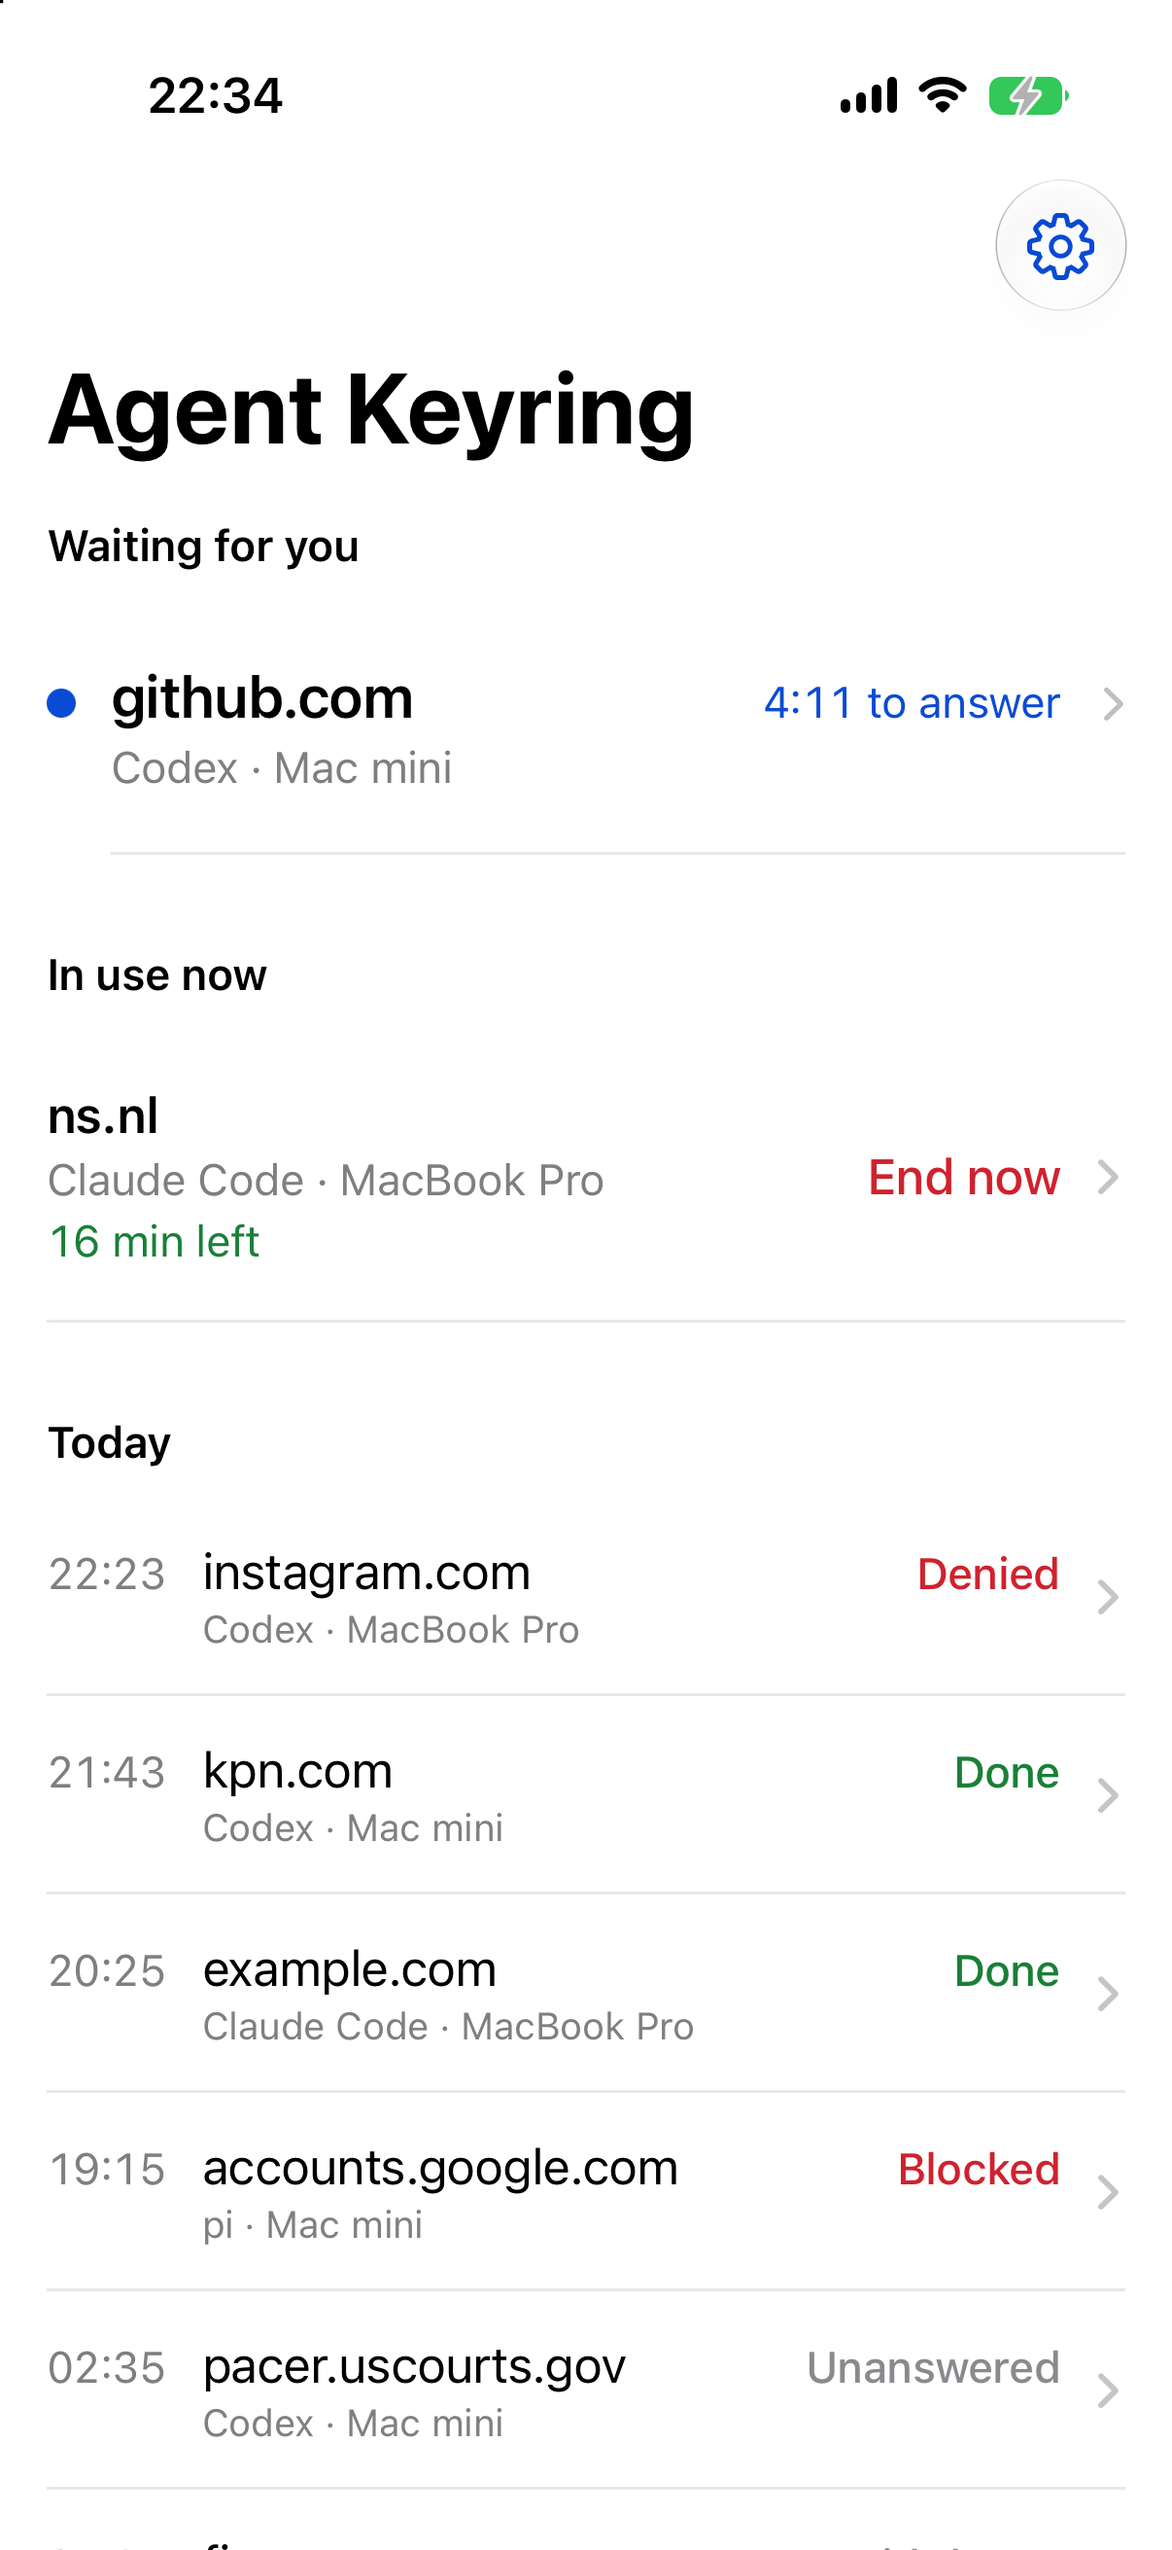
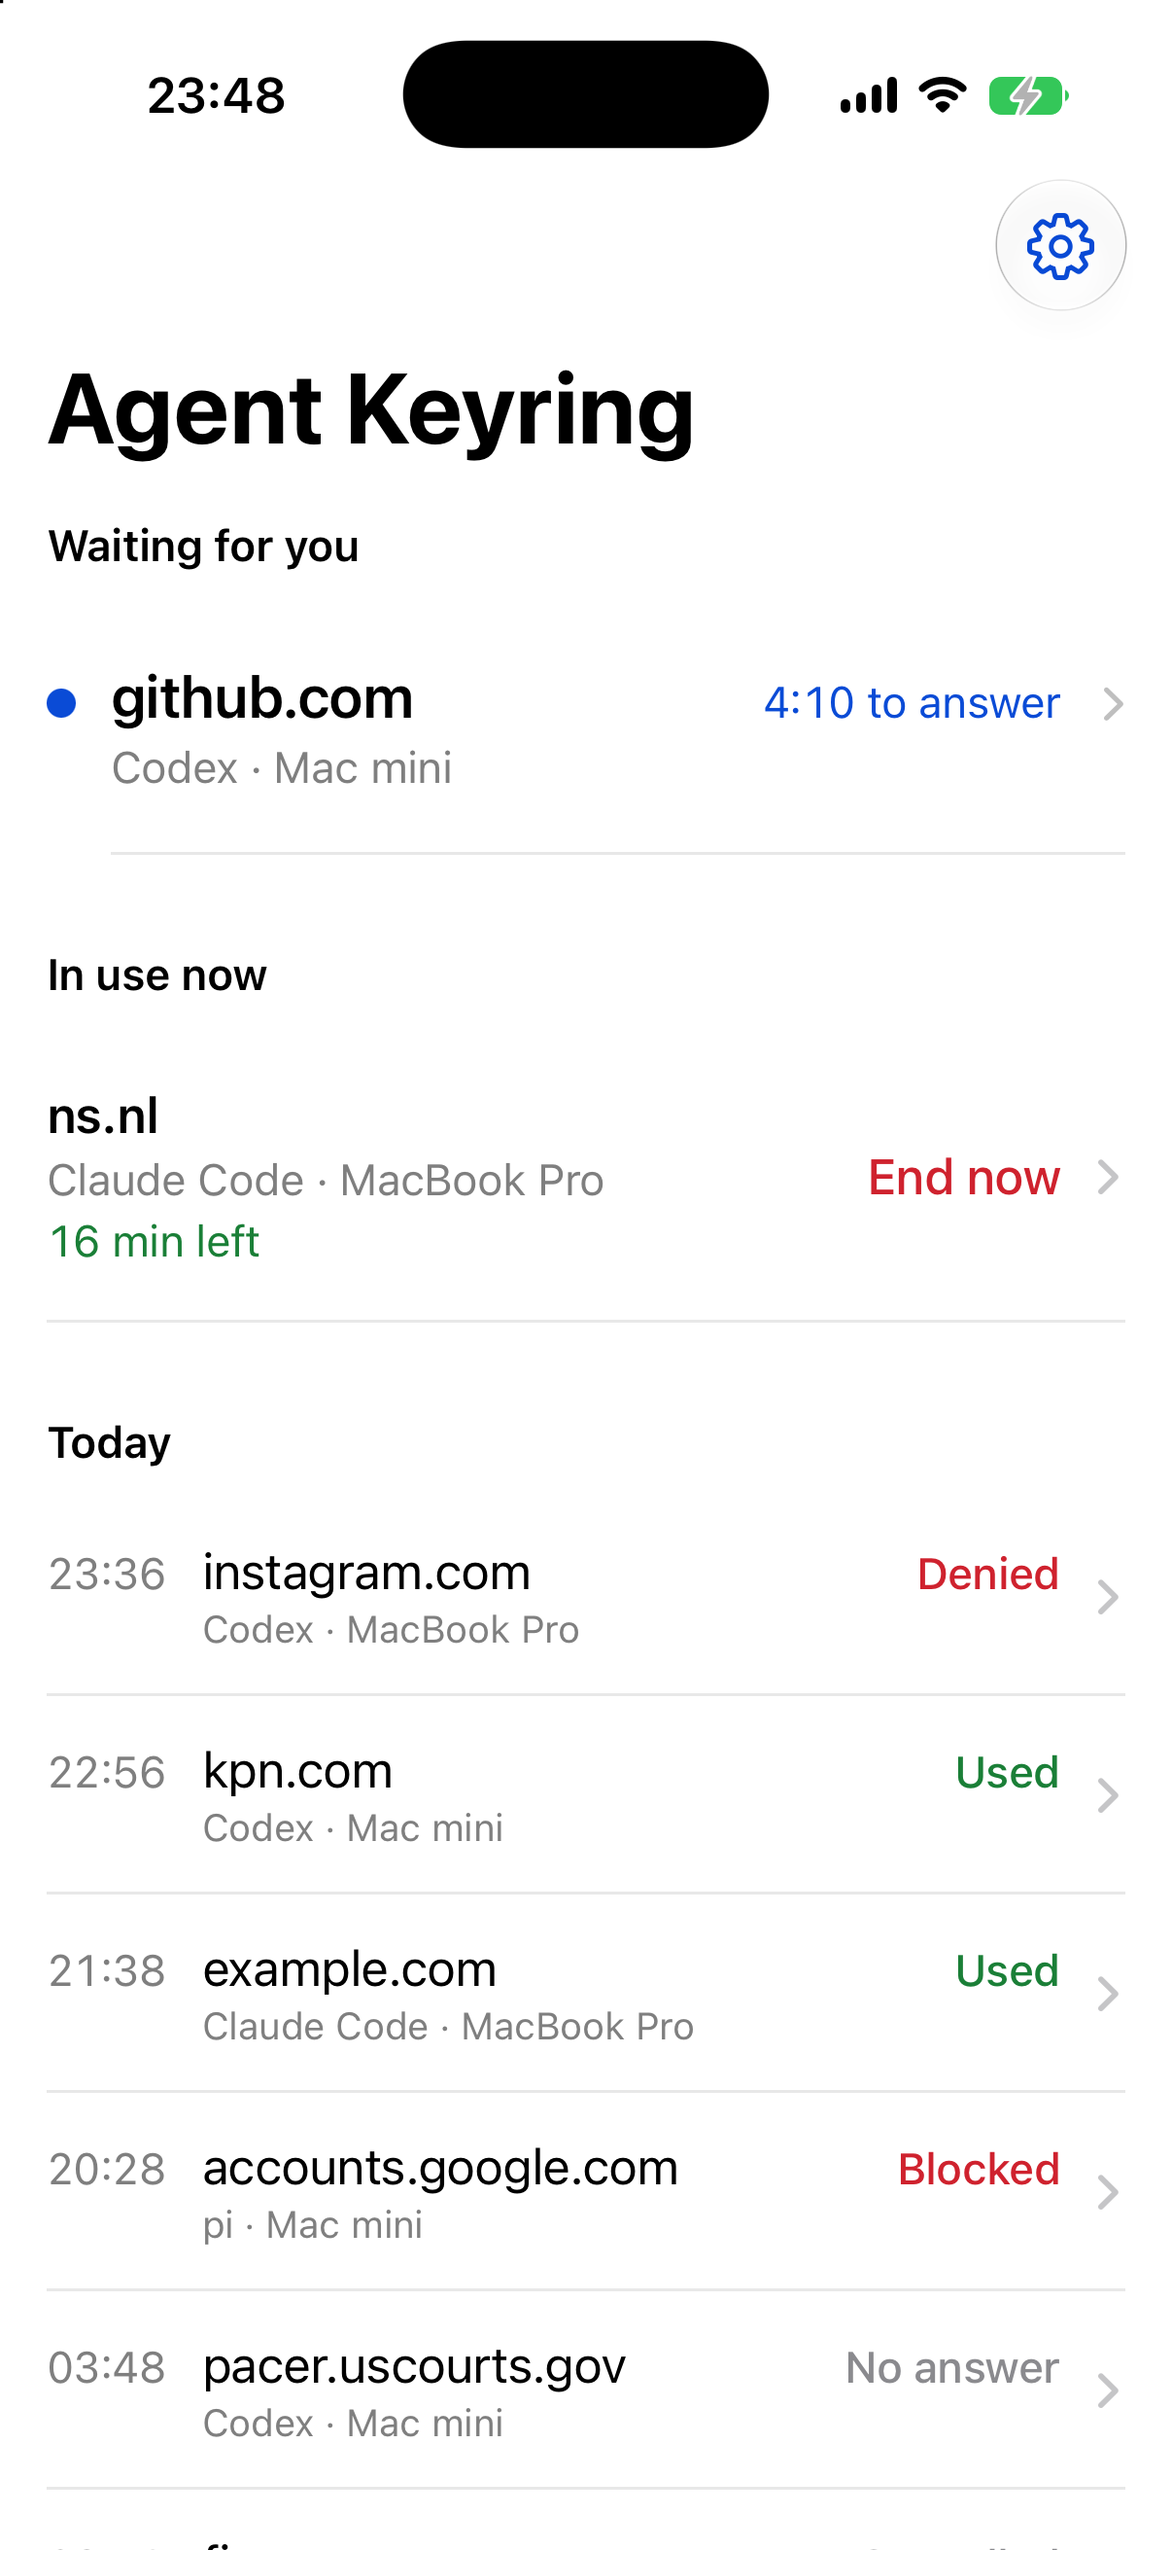
Menu bar and Machines: show only what Josh acts on
The menu bar window now holds what is waiting for him, what agents are
using now, what they used lately, and the way to the rules. The relay
status line, the login count and the "Confirm rules for other machines"
row are gone. Recent outcomes read Used, Denied, Blocked, No answer.
The Machines window no longer shows the connection to the Mac mini once
it works.

A machine joining and connecting the Mac mini are now one plain
approval each, with no code to compare: the setup agent checks the code.
Pairing the iPhone keeps its code, because both screens are in his
hands. These two screens must ship with the change that makes the Mac
app compare the code itself.

diff --git a/AgentKeyringPackage/Sources/AgentKeyringApprovalUI/Mac/MacMenuBarView.swift b/AgentKeyringPackage/Sources/AgentKeyringApprovalUI/Mac/MacMenuBarView.swift
@@ -1,8 +1,9 @@
 // Written by AI on 2026.10.31 by model Claude Opus 5.5.
 //
-// The menu bar window: what is waiting, what agents are using now with a
-// way to end it, and the last few answers. Two ways out: the rules, and the
-// app. Nothing else, because nothing else is needed often.
+// The menu bar window answers three questions: is anything waiting for me,
+// what are agents using now (and can I stop it), and what did they use
+// lately. Plus a way to the rules. Connection state, login counts and
+// housekeeping stay out: none of them is something Josh acts on here.
 
 #if os(macOS)
 import Observation
@@ -86,16 +87,9 @@ public final class MacMenuBarModel {
         self.backend = backend
     }
 
-    /// Everything that needs Josh: waiting requests and devices waiting to join.
-    public var attentionCount: Int { waiting.count + enrolments.count + (taskHistoryNeedsReset ? 1 : 0)
-        + (otherMachinesNeedRules ? 1 : 0) }
-
-    /// One line when the relay needs attention; nil when all is well.
-    public var relayAttention: String? {
-        guard case let .offline(address) = relay else { return nil }
-        return SetupCopy.relayOffline(address)
-            + (queuedAnswers > 0 ? " " + SetupCopy.queuedAnswers(queuedAnswers) : "")
-    }
+    /// Everything that needs Josh: waiting requests, devices waiting to join,
+    /// and agents paused on this Mac.
+    public var attentionCount: Int { waiting.count + enrolments.count + (taskHistoryNeedsReset ? 1 : 0) }
 
     /// Follows the backend for as long as the app runs. Start it once at launch,
     /// not from the window, because the menu bar icon shows the waiting count.
@@ -173,11 +167,8 @@ public struct MacMenuBarView: View {
                 }
                 .padding(14)
             }
-            if !model.waiting.isEmpty || !model.enrolments.isEmpty || model.otherMachinesNeedRules {
+            if !model.waiting.isEmpty || !model.enrolments.isEmpty {
                 MenuSection(title: "Waiting for you") {
-                    if model.otherMachinesNeedRules {
-                        OtherMachinesRulesRow(review: model.openRules)
-                    }
                     ForEach(model.enrolments) { enrolment in
                         JoiningMenuRow(enrolment: enrolment) { model.reviewEnrolment(enrolment.id) }
                     }
@@ -207,18 +198,6 @@ public struct MacMenuBarView: View {
                     }
                 }
             }
-            if let attention = model.relayAttention {
-                Divider().padding(.top, 6)
-                Button(action: model.openMachines) {
-                    Label(attention, systemImage: "exclamationmark.circle")
-                        .font(.callout)
-                        .foregroundStyle(.primary)
-                        .frame(maxWidth: .infinity, alignment: .leading)
-                }
-                .buttonStyle(.plain)
-                .padding(.horizontal, 14)
-                .padding(.vertical, 8)
-            }
             Divider().padding(.top, 6)
             footer
         }
@@ -228,12 +207,6 @@ public struct MacMenuBarView: View {
 
     private var footer: some View {
         HStack(spacing: 8) {
-            if let passwords = model.passwords {
-                Text("\(passwords.count) logins · imported \(passwords.importedAt.formatted(.relative(presentation: .named)))")
-                    .font(.caption)
-                    .foregroundStyle(.secondary)
-                    .lineLimit(1)
-            }
             Spacer()
             Button("Rules…", action: model.openRules)
                 .controlSize(.small)
@@ -321,31 +294,6 @@ private struct JoiningMenuRow: View {
             VStack(alignment: .leading, spacing: 1) {
                 Text(enrolment.name).font(.body.weight(.semibold))
                 Text(SetupCopy.joiningDetail(enrolment))
-                    .font(.caption).foregroundStyle(.secondary)
-            }
-            Spacer()
-            Button(SetupCopy.review, action: review)
-                .buttonStyle(.borderedProminent)
-                .tint(KeyringColour.signal)
-                .controlSize(.small)
-        }
-        .padding(.horizontal, 14)
-        .padding(.vertical, 6)
-    }
-}
-
-/// The rules window opens on its confirmation band.
-private struct OtherMachinesRulesRow: View {
-    let review: () -> Void
-
-    var body: some View {
-        HStack(alignment: .center, spacing: 10) {
-            Image(systemName: "slider.horizontal.3")
-                .foregroundStyle(KeyringColour.signal)
-                .frame(width: 8)
-            VStack(alignment: .leading, spacing: 1) {
-                Text(RulesCopy.otherMachinesNeedRulesTitle).font(.body.weight(.semibold))
-                Text(RulesCopy.otherMachinesNeedRulesDetail)
                     .font(.caption).foregroundStyle(.secondary)
             }
             Spacer()

diff --git a/AgentKeyringPackage/Sources/AgentKeyringApprovalUI/Mac/MacMachinesView.swift b/AgentKeyringPackage/Sources/AgentKeyringApprovalUI/Mac/MacMachinesView.swift
@@ -18,6 +18,13 @@ public enum RelayLink: Hashable, Sendable {
     case offline(address: String)
 }
 
+extension RelayLink {
+    var isConnected: Bool {
+        if case .connected = self { return true }
+        return false
+    }
+}
+
 public struct EnrolledMachine: Identifiable, Hashable, Sendable {
     public let id: String
     public var name: String
@@ -187,10 +194,9 @@ public struct MacMachinesView: View {
 
     public var body: some View {
         Form {
-            Section(SetupCopy.relayHeading) {
-                relay
-                // Pending withdrawals say more than the spinner, so they replace it.
-                if model.snapshot.isApplying && model.snapshot.withdrawals.isEmpty { ApplyingLine() }
+            // Once connected, the link to the Mac mini is nothing Josh acts on, so it isn't shown.
+            if !model.snapshot.relay.isConnected {
+                Section(SetupCopy.relayHeading) { relay }
             }
 
             if !model.snapshot.withdrawals.isEmpty {
@@ -213,9 +219,7 @@ public struct MacMachinesView: View {
                 Section(SetupCopy.waitingToJoin) {
                     ForEach(model.snapshot.waiting) { enrolment in
                         HStack {
-                            MachineLabel(name: enrolment.name,
-                                detail: enrolment.tailnetNode.isEmpty
-                                    ? SetupCopy.joiningDetail(enrolment) : SetupCopy.tailnetNode(enrolment.tailnetNode),
+                            MachineLabel(name: enrolment.name, detail: SetupCopy.joiningDetail(enrolment),
                                 symbol: enrolment.kind == .machine ? "desktopcomputer" : "iphone")
                             Spacer()
                             Button(SetupCopy.review) { model.review(enrolment.id) }
@@ -265,8 +269,7 @@ public struct MacMachinesView: View {
                     ForEach(model.snapshot.machines) { machine in
                         HStack {
                             MachineLabel(name: machine.name,
-                                detail: "\(machine.tailnetNode) · " + (machine.automaticAllowed
-                                    ? SetupCopy.automaticAllowed : SetupCopy.asksEveryTime),
+                                detail: machine.automaticAllowed ? SetupCopy.automaticAllowed : SetupCopy.asksEveryTime,
                                 symbol: "desktopcomputer")
                             Spacer()
                             Button(SetupCopy.remove) { Task { await model.remove(machine.id) } }
@@ -314,23 +317,18 @@ public struct MacMachinesView: View {
                 ProgressView().controlSize(.small)
                 Text(SetupCopy.relayConnecting(address))
             }
-        case let .comparing(code, address):
+        case .comparing:
+            // The setup agent has already checked the code; Josh only decides.
             VStack(alignment: .leading, spacing: 10) {
-                Text(SetupCopy.compareWithSetupCode)
+                Text(SetupCopy.connectToMiniTitle)
                     .font(.headline)
-                Text(SetupCopy.setupCodeSource(address))
-                    .foregroundStyle(.secondary)
-                FingerprintGrid(code)
-                    .frame(maxWidth: .infinity)
-                    .padding(.vertical, 6)
-                Text(SetupCopy.allGroupsMustMatch)
-                    .font(.footnote)
+                Text(SetupCopy.connectToMiniBody)
                     .foregroundStyle(.secondary)
                 HStack(spacing: 10) {
-                    Button(SetupCopy.doesNotMatch) { Task { await model.cancelRelaySetup() } }
-                        .buttonStyle(DecisionButtonStyle(colour: KeyringColour.deny, height: 32))
+                    Button(SetupCopy.notNow) { Task { await model.cancelRelaySetup() } }
+                        .buttonStyle(.quiet(height: 32))
                     Button { Task { await model.confirmRelay() } } label: {
-                        Label(SetupCopy.theyMatch, systemImage: "touchid")
+                        Label(SetupCopy.connect, systemImage: "touchid")
                     }
                     .buttonStyle(DecisionButtonStyle(colour: KeyringColour.approve, height: 32))
                 }

diff --git a/AgentKeyringPackage/Sources/AgentKeyringApprovalUI/Shared/SetupCopy.swift b/AgentKeyringPackage/Sources/AgentKeyringApprovalUI/Shared/SetupCopy.swift
@@ -16,7 +16,7 @@ public enum SetupCopy {
 
     public static func joiningLead(_ kind: DeviceEnrolment.Kind) -> String {
         switch kind {
-        case .machine: "A new machine wants to ask for logins"
+        case .machine: "Let agents on this machine ask for your logins?"
         case .approver: "Your iPhone wants to approve requests"
         }
     }
@@ -24,7 +24,7 @@ public enum SetupCopy {
     /// The second line under a joining device's name, in lists.
     public static func joiningDetail(_ enrolment: DeviceEnrolment) -> String {
         if let old = enrolment.replacesPhone { return "Replaces \(old)" }
-        return enrolment.kind == .machine ? "Wants to ask for logins" : "Wants to approve requests"
+        return enrolment.kind == .machine ? "Wants its agents to ask for your logins" : "Wants to approve requests"
     }
 
     /// In the panel, under the new iPhone's name.
@@ -70,13 +70,13 @@ public enum SetupCopy {
     public static let relayAddressExample = "mac-mini:17443"
     public static let relayAddressHint = "Its Tailscale name and port."
     public static let connect = "Connect"
-    /// RFC 0005, "First approver": the agent setting up the relay reads its
-    /// code over the mini's trusted SSH connection and shows it to Josh; he
-    /// never opens a log.
-    public static let compareWithSetupCode = "Check that this Mac is talking to your Mac mini"
-    public static func setupCodeSource(_ address: String) -> String {
-        "The agent that set up your Mac mini reads the same code there and shows it to you. Compare the two. Address: \(address)."
-    }
+    /// The agent setting up the mini checks its code for Josh (it reads it over
+    /// SSH and the Mac app compares), so he only makes the decision itself.
+    public static let connectToMiniTitle = "Connect this Mac to your Mac mini?"
+    public static let connectToMiniBody = "Agents on your other machines will then send their login requests through it to you."
+    public static let notNow = "Not now"
+    public static let allow = "Allow"
+    public static let dontAllow = "Don't allow"
 
     public static func relayConnected(_ address: String) -> String { "Connected to \(address)" }
     public static func relayConnecting(_ address: String) -> String { "Connecting to \(address)…" }
@@ -89,7 +89,7 @@ public enum SetupCopy {
     /// RFC 0005, "Applying a change": shown until the relay acknowledges.
     public static let applying = "Sending changes to your Mac mini…"
     public static let waitingToJoin = "Waiting to join"
-    public static let machinesThatCanAsk = "Machines that can ask for logins"
+    public static let machinesThatCanAsk = "Machines whose agents can ask for your logins"
     public static let noMachines = "None yet. To add a machine, ask an agent on it to set up Agent Keyring."
     public static let automaticAllowed = "Can use Automatic logins"
     public static let asksEveryTime = "Asks you for every login"
@@ -117,7 +117,7 @@ public enum SetupCopy {
         guard names.count > 1 else { return names.first ?? "" }
         return names.dropLast().joined(separator: ", ") + " and " + names.last!
     }
-    public static let canApprove = "Devices that can approve"
+    public static let canApprove = "Where you approve requests"
     public static let answersWithTouchID = "Answers on this Mac"
     public static let answersWithFaceID = "Answers with Face ID"
     public static let review = "Review"

diff --git a/AgentKeyringPackage/Sources/AgentKeyringApprovalUI/Mac/MacEnrolmentPanel.swift b/AgentKeyringPackage/Sources/AgentKeyringApprovalUI/Mac/MacEnrolmentPanel.swift
@@ -113,6 +113,9 @@ public struct MacEnrolmentPanelView: View {
                 }
             }
 
+            // A machine's code is checked by the agent setting it up; only an
+            // iPhone, whose screen Josh holds, is compared by eye.
+            if model.enrolment.kind == .approver {
             Divider()
 
             VStack(alignment: .leading, spacing: 10) {
@@ -124,6 +127,7 @@ public struct MacEnrolmentPanelView: View {
                 Text(SetupCopy.allGroupsMustMatch)
                     .font(.footnote)
                     .foregroundStyle(.secondary)
+            }
             }
 
             if model.enrolment.kind == .machine && model.outcome == nil {
@@ -167,12 +171,13 @@ public struct MacEnrolmentPanelView: View {
             Button("Close", action: model.close)
                 .buttonStyle(.quiet(height: 32))
         } else {
+            let isPhone = model.enrolment.kind == .approver
             HStack(spacing: 10) {
-                Button(SetupCopy.doesNotMatch) { Task { await model.refuse() } }
+                Button(isPhone ? SetupCopy.doesNotMatch : SetupCopy.dontAllow) { Task { await model.refuse() } }
                     .buttonStyle(DecisionButtonStyle(colour: KeyringColour.deny, height: 36))
                 Button { Task { await model.approve() } } label: {
                     if model.isSending { ProgressView().controlSize(.small).tint(.white) }
-                    else { Label(SetupCopy.theyMatch, systemImage: "touchid") }
+                    else { Label(isPhone ? SetupCopy.theyMatch : SetupCopy.allow, systemImage: "touchid") }
                 }
                 .buttonStyle(DecisionButtonStyle(colour: KeyringColour.approve, height: 36))
             }

diff --git a/AgentKeyringPackage/Sources/AgentKeyringApprovalUI/Shared/AccessRequestCopy.swift b/AgentKeyringPackage/Sources/AgentKeyringApprovalUI/Shared/AccessRequestCopy.swift
@@ -148,14 +148,13 @@ public enum AccessRequestCopy {
         case .waitingForYou: "Waiting"
         case .sendingAnswer: "Sending"
         case .waitingForMac: "Waiting for your Mac"
-        case .approved(.automaticRule, _): "Automatic"
+        case .approved(.automaticRule, _): "Used"
         case .approved: "In use"
         case .denied: "Denied"
-        case .unanswered: "Unanswered"
-        case .cancelled: "Withdrawn"
-        case .expired: "Expired"
-        case .released: "Done"
-        case .ended: "Ended"
+        case .unanswered: "No answer"
+        case .cancelled: "Cancelled"
+        case .expired, .released: "Used"
+        case .ended: "Ended by you"
         case .blockedByRule: "Blocked"
         }
     }
